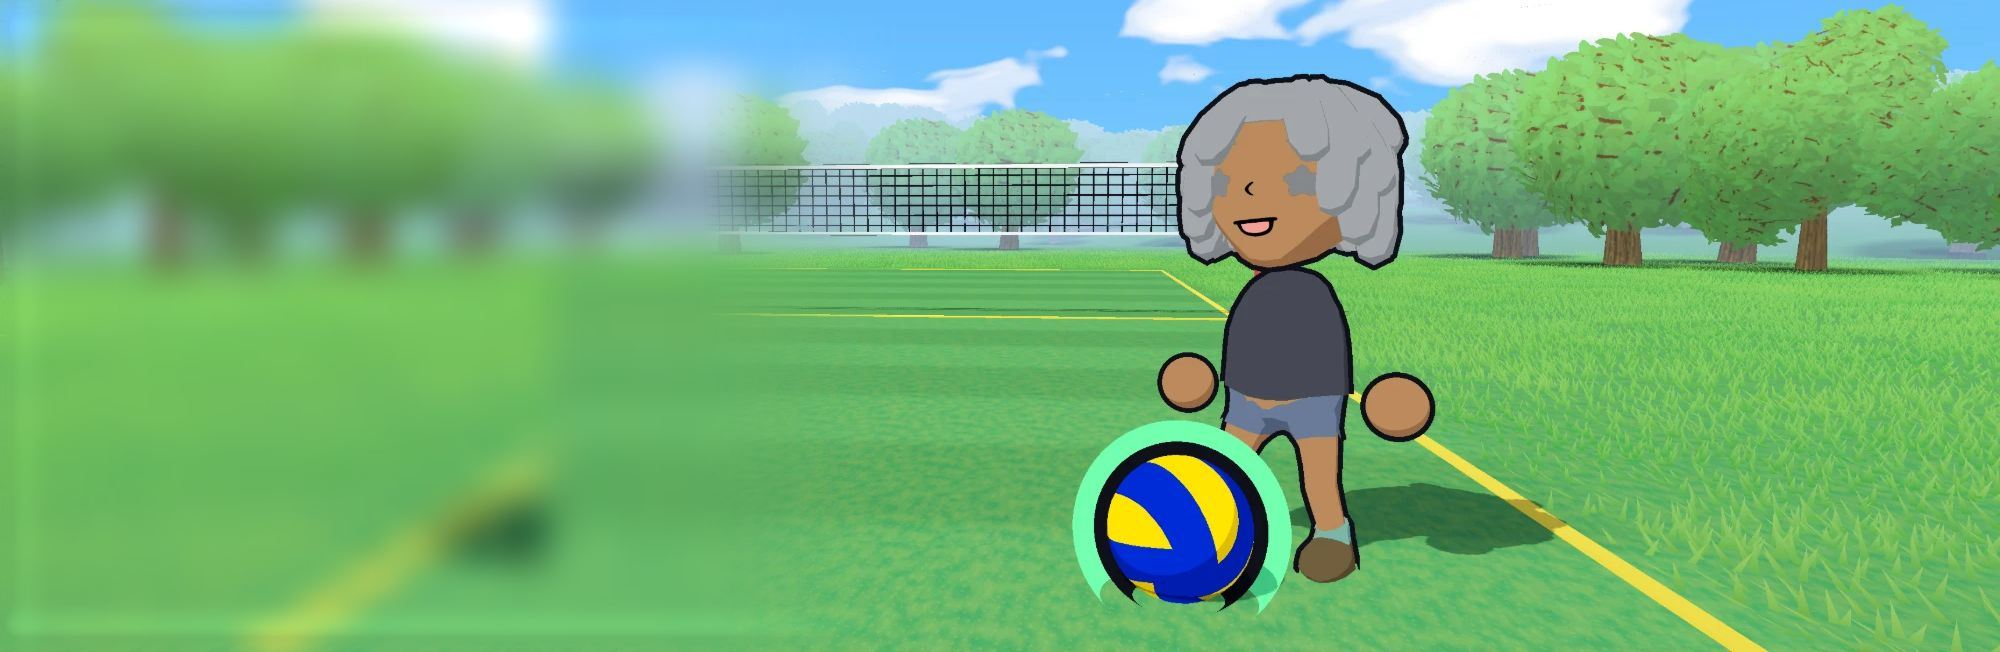
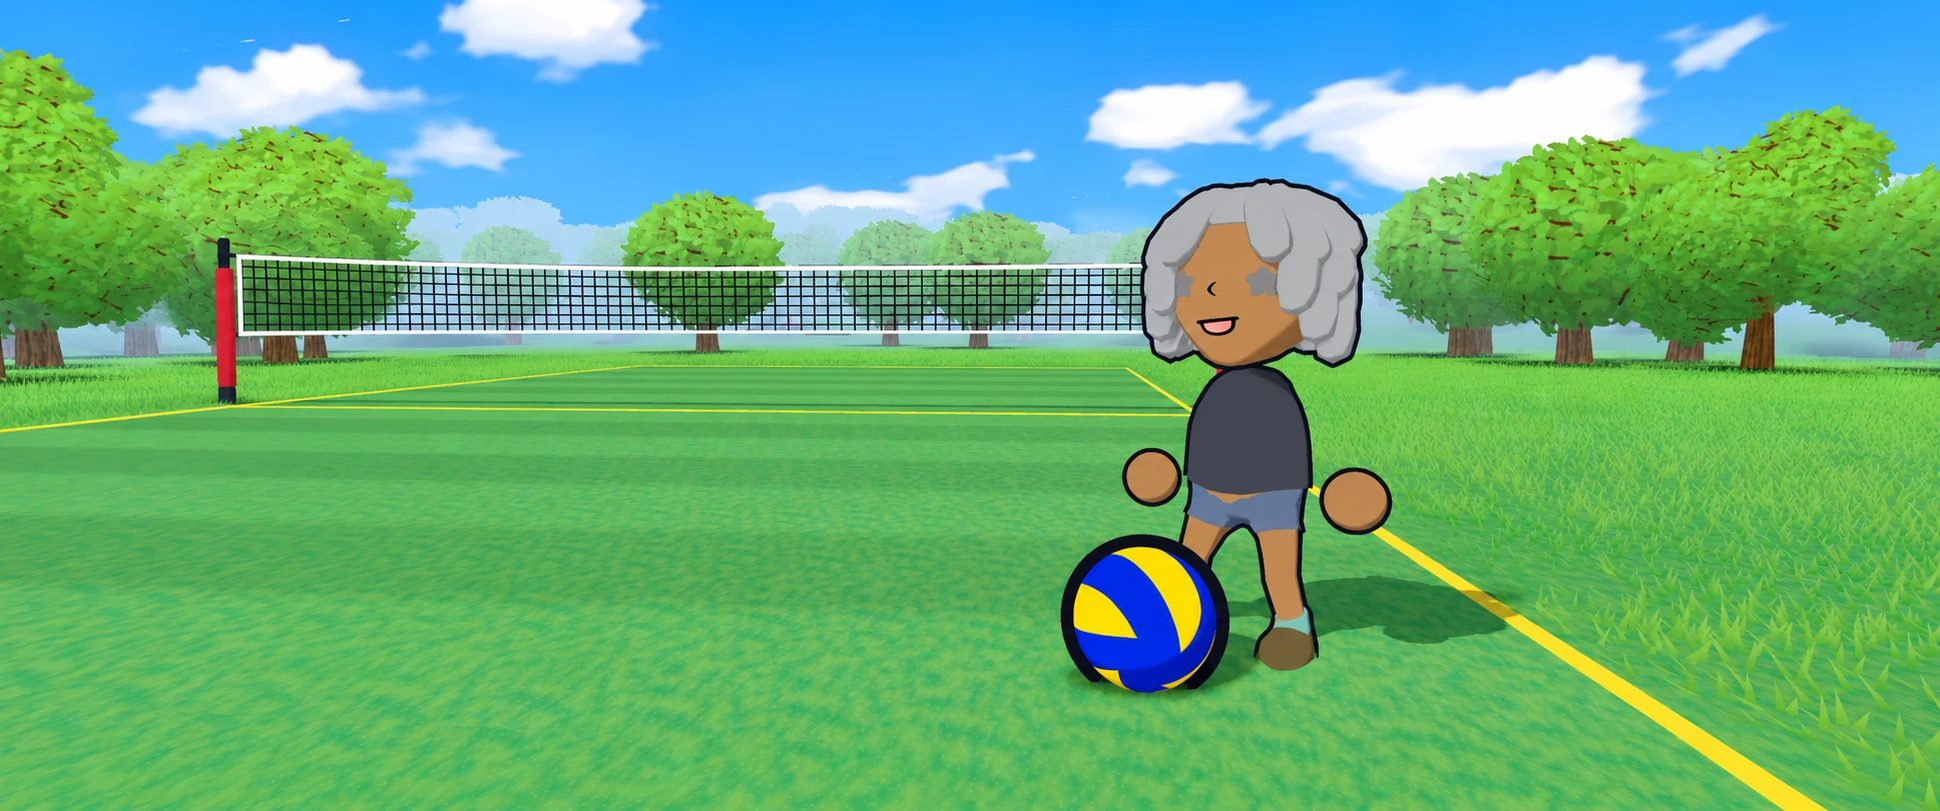
Clean court background and game-style back buttons
Desktop background is now the user's clean in-game shot (no menus). Every page except Home gets one back button that returns to the previous page (back to fixtures etc.) or, when opened from a shared link, to its parent page; Esc does the same, like backing out of a menu in the game. Per-page back links removed.

diff --git a/public/js/app.js b/public/js/app.js
@@ -21,29 +21,69 @@ import { onAdminChange, onUserChange, currentAdmin, startDiscordSignIn } from '.
 import { renderShell } from './shell.js';
 import * as teamsList from './pages/teams.js';
 import { setNav } from './nav.js';
-import { notice } from './ui.js';
+import { notice, esc, urls } from './ui.js';
 
 // Path patterns. ":name" parts are passed to the page's render() as params.
 // `section` is the menu item to highlight.
+// `up` is where "back" goes when there's no previous page on this site (e.g. someone opened a shared link).
+const toMenu = () => ({ href: '/', label: 'main menu' });
+const toAdmin = () => ({ href: '/admin', label: 'admin' });
 const routes = [
   { path: '/', page: events.home, section: '/' },
-  { path: '/fixtures', page: fixtures, section: '/fixtures' },
-  { path: '/stats', page: stats, section: '/stats' },
-  { path: '/events', page: events.eventsList, section: '/events' },
-  { path: '/event/:eventId', page: events.eventPage, section: '/events' },
-  { path: '/match/:eventId/:fixtureId', page: match, section: '/fixtures' },
-  { path: '/player/:playerId', page: player, section: '/stats' },
-  { path: '/teams', page: teamsList, section: '/teams' },
-  { path: '/team/:teamId', page: team, section: '/teams' },
-  { path: '/me', page: me, section: '/me' },
-  { path: '/manage', page: manage, section: '/me' },
+  { path: '/fixtures', page: fixtures, section: '/fixtures', up: toMenu },
+  { path: '/stats', page: stats, section: '/stats', up: toMenu },
+  { path: '/events', page: events.eventsList, section: '/events', up: toMenu },
+  { path: '/event/:eventId', page: events.eventPage, section: '/events', up: () => ({ href: '/events', label: 'events' }) },
+  { path: '/match/:eventId/:fixtureId', page: match, section: '/fixtures', up: (p) => ({ href: urls.event(p.eventId), label: 'the event' }) },
+  { path: '/player/:playerId', page: player, section: '/stats', up: () => ({ href: '/stats', label: 'stats' }) },
+  { path: '/teams', page: teamsList, section: '/teams', up: toMenu },
+  { path: '/team/:teamId', page: team, section: '/teams', up: () => ({ href: '/teams', label: 'teams' }) },
+  { path: '/me', page: me, section: '/me', up: toMenu },
+  { path: '/manage', page: manage, section: '/me', up: () => ({ href: '/me', label: 'me' }) },
   { path: '/auth/discord', page: authCallback, section: '/me' },
-  { path: '/admin', page: adminHome, section: '/admin' },
-  { path: '/admin/requests', page: requests, section: '/admin' },
-  { path: '/admin/people', page: people, section: '/admin' },
-  { path: '/admin/event/:eventId', page: eventEdit, section: '/admin' },
-  { path: '/admin/result/:eventId/:fixtureId', page: resultEntry, section: '/admin' },
+  { path: '/admin', page: adminHome, section: '/admin', up: toMenu },
+  { path: '/admin/requests', page: requests, section: '/admin', up: toAdmin },
+  { path: '/admin/people', page: people, section: '/admin', up: toAdmin },
+  { path: '/admin/event/:eventId', page: eventEdit, section: '/admin', up: toAdmin },
+  { path: '/admin/result/:eventId/:fixtureId', page: resultEntry, section: '/admin', up: (p) => ({ href: urls.adminEvent(p.eventId, 'fixtures'), label: 'the event’s fixtures' }) },
 ];
+
+// ---------- Back button (and Esc), like backing out of a menu in the game ----------
+// Each page visit inside the site is numbered (history.state.depth) and remembers the page it came from,
+// so "back" can say where it goes. With nothing to go back to, it goes "up" instead.
+const shortTitle = () => (document.title === SITE_NAME ? 'main menu' : document.title.replace(` · ${SITE_NAME}`, ''));
+if (!history.state) history.replaceState({ depth: 0 }, '');
+
+function backBar(route, params) {
+  const up = route.up?.(params);
+  if (!up) return '';
+  const fromHere = (history.state?.depth ?? 0) > 0;
+  const label = fromHere ? history.state.from : up.label;
+  return `
+    <nav class="backbar" aria-label="Back">
+      <a class="back-btn" href="${esc(up.href)}" data-back><span class="back-arrow" aria-hidden="true">←</span><span>back${label ? ` to ${esc(label)}` : ''}</span></a>
+      <span class="esc-hint" aria-hidden="true"><kbd>esc</kbd></span>
+    </nav>`;
+}
+
+function goBack(fallbackHref) {
+  if ((history.state?.depth ?? 0) > 0) history.back();
+  else navigate(fallbackHref, { replace: true });
+}
+
+document.addEventListener('click', (e) => {
+  const link = e.target.closest('a[data-back]');
+  if (!link || e.metaKey || e.ctrlKey || e.shiftKey || e.button !== 0) return;
+  e.preventDefault();
+  goBack(link.getAttribute('href'));
+});
+
+document.addEventListener('keydown', (e) => {
+  if (e.key !== 'Escape' || e.defaultPrevented) return;
+  if (e.target.closest?.('input, textarea, select, [contenteditable]') || document.querySelector('dialog[open]')) return;
+  const link = main.querySelector('a[data-back]');
+  if (link) goBack(link.getAttribute('href'));
+});
 
 // Old addresses from earlier versions of the site.
 const redirects = { '/exhibitions': '/events?type=exhibition', '/tournaments': '/events?type=tournament' };
@@ -79,10 +119,11 @@ let renderId = 0;
 async function show() {
   const path = location.pathname.replace(/\/+$/, '') || '/';
   if (redirects[path]) {
-    history.replaceState(null, '', redirects[path]);
+    history.replaceState(history.state, '', redirects[path]);
     return show();
   }
-  const { page, params, section } = matchRoute(path);
+  const route = matchRoute(path);
+  const { page, params, section } = route;
   const id = ++renderId;
 
   document.querySelectorAll('.topnav a, .tabbar a').forEach((a) => {
@@ -91,30 +132,32 @@ async function show() {
   });
 
   document.title = page === events.home ? SITE_NAME : `${page.title} · ${SITE_NAME}`;
-  main.innerHTML = page.loading();
+  const back = backBar(route, params);
+  main.innerHTML = back + page.loading();
   try {
     const out = await page.render(params);
     if (id !== renderId) return; // the user already moved on
     const { html, title } = typeof out === 'string' ? { html: out } : out;
-    main.innerHTML = html;
+    main.innerHTML = back + html;
     if (title) document.title = `${title} · ${SITE_NAME}`;
     page.mount?.(main);
     renderShell(); // keeps the desktop bars (level, team, next match) up to date after saves
   } catch (err) {
     if (id !== renderId) return;
     if (err instanceof NotFoundError) {
-      main.innerHTML = notice('Not found', ` ${err.message}.`, 'x');
+      main.innerHTML = back + notice('Not found', ` ${err.message}.`, 'x');
     } else {
       console.error(err);
-      main.innerHTML = notice('Couldn’t load this page', ' Check your connection and refresh.', 'x');
+      main.innerHTML = back + notice('Couldn’t load this page', ' Check your connection and refresh.', 'x');
     }
   }
 }
 
 function navigate(href, { keepScroll = false, replace = false } = {}) {
   if (href !== location.pathname + location.search) {
-    if (replace) history.replaceState(null, '', href);
-    else history.pushState(null, '', href);
+    const state = history.state ?? { depth: 0 };
+    if (replace) history.replaceState(state, '', href);
+    else history.pushState({ depth: (state.depth ?? 0) + 1, from: shortTitle() }, '', href);
     if (!keepScroll) window.scrollTo(0, 0);
   }
   show();

diff --git a/public/css/app.css b/public/css/app.css
@@ -488,6 +488,14 @@ table.entry tr.off input[data-stat] { opacity: 0.35; }
 @keyframes shimmer { to { background-position: -200% 0; } }
 @media (prefers-reduced-motion: reduce) { .skeleton { animation: none; } .btn:hover, a.event-card:hover { transform: none; } }
 
+/* ---------- Back button (every page except Home) ---------- */
+.backbar { display: flex; align-items: center; gap: 10px; margin-bottom: 12px; }
+.back-btn { display: inline-flex; align-items: center; gap: 8px; min-height: 36px; color: var(--muted); font-weight: 800; font-size: 14px; text-decoration: none; }
+.back-btn:hover { color: var(--ink); }
+.back-arrow { display: inline-grid; place-items: center; width: 28px; height: 28px; border-radius: 50%; border: 2px solid var(--ink); background: var(--surface); color: var(--ink); font-size: 16px; line-height: 1; }
+.esc-hint { display: none; }
+.pro + .backbar, .backbar:has(+ .pro) { margin-bottom: 14px; }
+
 /* ---------- Teams list ---------- */
 .team-grid { display: grid; gap: 14px; grid-template-columns: repeat(auto-fill, minmax(260px, 1fr)); }
 .team-card { --theme: var(--blue); padding: 0; overflow: hidden; text-decoration: none; display: grid; }
@@ -636,6 +644,19 @@ a.team-card:hover { transform: translate(-1px, -1px); box-shadow: 4px 4px 0 var(
   .dark-pill:hover { border-color: var(--g-yellow); }
   .cta-pill { padding: 10px 28px; border-radius: 999px; background: var(--g-yellow); color: #1b1b1f; font: 700 19px var(--font-head); text-decoration: none; }
   .cta-pill:hover { filter: brightness(1.05); }
+
+  /* Back button: a dark game pill with a yellow arrow and an "esc" key hint */
+  .backbar { margin-bottom: 18px; }
+  .back-btn {
+    gap: 12px; min-height: 0; padding: 7px 20px 7px 7px; border-radius: 999px; background: var(--g-card); color: #fff;
+    border: 3px solid var(--g-bar); box-shadow: 0 5px 0 rgba(0, 0, 0, 0.25); font: 600 18px var(--font-head); text-transform: lowercase;
+    transition: transform 0.12s ease;
+  }
+  .back-btn:hover { color: #fff; transform: translateX(-4px); }
+  .back-arrow { width: 34px; height: 34px; border: 0; background: var(--g-yellow); color: #1b1b1f; font-size: 20px; font-weight: 800; }
+  .esc-hint { display: inline-flex; align-items: center; gap: 6px; font-size: 13px; color: var(--muted); }
+  .esc-hint kbd { font: 700 12px var(--font-body); padding: 2px 7px; border-radius: 6px; border: 2px solid var(--ink); border-bottom-width: 4px; background: var(--surface); color: var(--ink); }
+  main.page:has(.pro) .esc-hint kbd { border-color: var(--g-bar); }
 
   /* Site footer sits on the court: give it a dark strip so it stays readable */
   .footer { max-width: 1180px; margin: 0 auto 16px; padding: 12px 20px; border-radius: 14px; background: rgba(12, 13, 18, 0.78); color: var(--g-text); }

diff --git a/public/js/pages/admin/result.js b/public/js/pages/admin/result.js
@@ -305,7 +305,7 @@ export async function render({ eventId, fixtureId }) {
   const b = await loadEventBundle(eventId, { fresh: true, admin: true });
   const fixture = b.fixtures.find((f) => f.id === fixtureId);
   if (!fixture) throw new NotFoundError('That fixture doesn’t exist');
-  const back = `<a class="back" href="${urls.adminEvent(eventId, 'fixtures')}" data-link>← ${esc(b.event.title)} fixtures</a>`;
+  const back = ''; // the site-wide back button (app.js) goes to this event's fixtures
 
   if (!fixture.homeTeamId || !fixture.awayTeamId) {
     return {

diff --git a/public/js/pages/admin/event-edit.js b/public/js/pages/admin/event-edit.js
@@ -232,7 +232,6 @@ export async function render({ eventId }) {
     html: `
       <div class="admin-root">
         ${adminBar(gate.user, gate.admin, '/admin')}
-        <a class="back" href="/admin" data-link>← Events</a>
         <div class="page-head"><div><h1>${esc(heading)}</h1>${b ? `<p class="muted">${b.event.published ? `Published · <a href="${urls.event(eventId)}" data-link>view public page</a>` : 'Draft: only admins can see it'}</p>` : ''}</div></div>
         ${tabs}
         <div class="entry">${body}</div>

diff --git a/public/js/pages/manage.js b/public/js/pages/manage.js
@@ -47,7 +47,6 @@ export async function render() {
     title: `Manage ${team.name}`,
     html: `
       <div class="manage-root stack">
-        <a class="back" href="/me" data-link>← Me</a>
         <div class="page-head"><div><h1><span class="team">${teamDot(team, 'lg')}${esc(team.name)}</span></h1><p class="muted">You’re the manager.</p></div></div>
         <div class="cols">
           <div class="stack">

diff --git a/public/js/pages/match.js b/public/js/pages/match.js
@@ -66,7 +66,6 @@ export async function render({ eventId, fixtureId }) {
   return {
     title: `${home?.shortName ?? 'TBC'} v ${away?.shortName ?? 'TBC'}`,
     html: `
-      <a class="back" href="${urls.event(b.event.id)}" data-link>← ${esc(b.event.title)}</a>
       <div class="stack">
         <section class="panel match-head">
           <p class="muted small">${sub}</p>

diff --git a/public/sw.js b/public/sw.js
@@ -5,7 +5,7 @@
 // Only the bare shell is pre-cached (a missing file here would stop the worker installing);
 // every other script is cached the first time it loads.
 
-const CACHE = 'jvo-shell-v13';
+const CACHE = 'jvo-shell-v14';
 const SHELL = [
   '/',
   '/index.html',

diff --git a/public/js/pages/events.js b/public/js/pages/events.js
@@ -194,7 +194,6 @@ export const eventPage = {
     return {
       title: e.title,
       html: `
-        <a class="back" href="/events" data-link>← Events</a>
         <div class="stack">
           <section class="panel">
             ${tags(e)}
